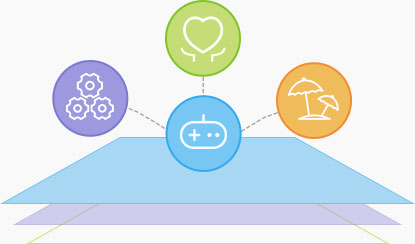
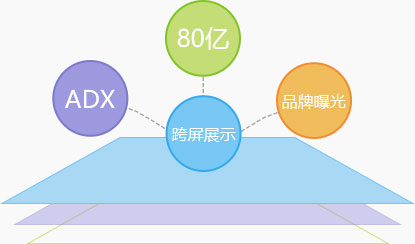
update

diff --git a/web/easy-rice/er-resource-advantage.html b/web/easy-rice/er-resource-advantage.html
@@ -122,8 +122,8 @@
                             <div class="protal-group-content protal-part-top row clearfix bg-f9">
                                 <div class="protal-group-detail col-5">
                                     <div class="protal-group-wrap mt150">
-                                        <h2 class="protal-group-tit">优质媒体资源</h2>
-                                        <p class="protal-group-desc">海量媒体资源让客户随时随地看到您的广告</p>
+                                        <h2 class="protal-group-tit">行业客户</h2>
+                                        <p class="protal-group-desc">服务客户覆盖电商、教育、房地产、汽车、机械制造等，建立了成熟的行业解决方案，形成了行业专业投放数据。服务客户达到10余万家，得到客户认可和好评。同时为您量身定制方案，实现您的营销目标。</p>
                                     </div>
                                 </div>
                                 <div class="protal-group-img-wrap col-7">
@@ -137,63 +137,32 @@
                         <div class="protal-group">
                             <div class="protal-group-content row clearfix bg-f3">
                                 <div class="protal-group-img-wrap col-6">
-                                    <div class="protal-group-img mt50">
-                                        <img src="../images/easy-rice/resource-advantage-two.jpg" alt="">
-                                    </div>
-                                </div>
-                                <div class="protal-group-detail col-6">
-                                    <div class="protal-group-wrap">
-                                        <h2 class="protal-group-tit">媒体资源包括</h2>
-                                        <p class="protal-group-desc">美图秀秀、58同城、网易、百度、爱奇艺、今日头条、赶集、新浪、凤凰网、腾讯视频等</p>
-                                    </div>
-                                </div>
-                            </div>
-                        </div>
-                        <div class="protal-group">
-                            <div class="protal-group-content row clearfix bg-f9">
-                                <div class="protal-group-detail col-6">
-                                    <div class="protal-group-wrap mt150">
-                                        <h2 class="protal-group-tit">丰富的广告形式</h2>
-                                        <p class="protal-group-desc">创意广告内容，多彩广告形式，让您的广告被客户喜爱</p>
-                                    </div>
-                                </div>
-                                <div class="protal-group-img-wrap col-6">
                                     <div class="protal-group-img mt100">
                                         <img src="../images/easy-rice/resource-advantage-thr.jpg" alt="">
+                                    </div>
+                                </div>
+                                <div class="protal-group-detail col-6">
+                                    <div class="protal-group-wrap mt150">
+                                        <h2 class="protal-group-tit">广告形式</h2>
+                                        <p class="protal-group-desc">丰富的广告形式：插屏、banner、全屏、轮播、信息流等。满足您多样化的需求和个性化的设计。在用户最需要的时候抓住用户的眼球，展示给用户并形成点击，帮您实现流量的导入。</p>
                                     </div>
                                 </div>
 
                             </div>
                         </div>
                         <div class="protal-group">
-                            <div class="protal-group-content row clearfix bg-f3">
+                            <div class="protal-group-content row clearfix bg-f9">
+                                <div class="protal-group-detail col-6">
+                                    <div class="protal-group-wrap">
+                                        <h2 class="protal-group-tit">服务保障</h2>
+                                        <p class="protal-group-desc">专业的客户服务和运维保障，随时随地为您解决问题.<br>便捷：智能的便捷服务<br>周到：代运营服务<br>省时：10年行业推广团队精倾力打造<br>专业：智能高效节约推广时间</p>
+                                    </div>
+                                </div>
                                 <div class="protal-group-img-wrap col-6">
                                     <div class="protal-group-img mt50">
                                         <img src="../images/easy-rice/resource-advantage-fou.jpg" alt="">
                                     </div>
                                 </div>
-                                <div class="protal-group-detail col-6">
-                                    <div class="protal-group-wrap">
-                                        <h2 class="protal-group-tit">精准的广告投放</h2>
-                                        <p class="protal-group-desc">行业投放数据积累，让广告投放更加精准触达用户</p>
-                                    </div>
-                                </div>
-                            </div>
-                        </div>
-                        <div class="protal-group">
-                            <div class="protal-group-content row clearfix bg-f9">
-                                <div class="protal-group-detail col-6">
-                                    <div class="protal-group-wrap">
-                                        <h2 class="protal-group-tit">专业的数据分析</h2>
-                                        <p class="protal-group-desc">资深优化师依托海量数据分析投放结果，扩大您的投资收益</p>
-                                    </div>
-                                </div>
-                                <div class="protal-group-img-wrap col-6">
-                                    <div class="protal-group-img mt100">
-                                        <img src="../images/easy-rice/resource-advantage-fiv.jpg" alt="">
-                                    </div>
-                                </div>
-
                             </div>
                         </div>
 

diff --git a/web/easy-rice/er-product-advantage.html b/web/easy-rice/er-product-advantage.html
@@ -122,8 +122,8 @@
                             <div class="protal-group-content protal-part-top row clearfix bg-f9">
                                 <div class="protal-group-detail col-6">
                                     <div class="protal-group-wrap mt150">
-                                        <h2 class="protal-group-tit">行业客户</h2>
-                                        <p class="protal-group-desc">服务客户覆盖制造、服务、旅游、游戏等，建立了成熟的行业解决方案</p>
+                                        <h2 class="protal-group-tit">资源优势</h2>
+                                        <p class="protal-group-desc">签约多家ADX，涵盖市场主流媒体资源，每天约80亿次曝光，覆盖PC、移动等端口，实现跨屏展示，为您带来品牌曝光和品牌影响，实现品牌推广。</p>
                                     </div>
                                 </div>
                                 <div class="protal-group-img-wrap col-6">
@@ -143,8 +143,8 @@
                                 </div>
                                 <div class="protal-group-detail col-6">
                                     <div class="protal-group-wrap">
-                                        <h2 class="protal-group-tit">独家技术</h2>
-                                        <p class="protal-group-desc">独家“相似人群技术” ，有效分析DMP中相似人群的转型为特点扩大人群覆盖范围</p>
+                                        <h2 class="protal-group-tit">技术优势</h2>
+                                        <p class="protal-group-desc">独家相似人群技术，有效分析数据库中相似人群行为属性特征，为您找到目标用户相似需求属性，发掘目标用户使用行为习惯，发现潜在消费人群，助您提升曝光、点击以及转化。</p>
                                     </div>
                                 </div>
                             </div>
@@ -154,7 +154,7 @@
                                 <div class="protal-group-detail col-6">
                                     <div class="protal-group-wrap">
                                         <h2 class="protal-group-tit">数据资源</h2>
-                                        <p class="protal-group-desc">积累了各行业丰富的数据资源，上亿商品数据、网名用户行为数据、广告信息数据。</p>
+                                        <p class="protal-group-desc">以第三方数据为基础，结合数十年产品投放数据建立独有数据体系。上亿点击数据、网名行为数据、网民基本属性数据、网民搜索爱好数据、广告投放数据等，为您用大数据打开数字营销新方式。</p>
                                     </div>
                                 </div>
                                 <div class="protal-group-img-wrap col-6">
@@ -165,38 +165,7 @@
 
                             </div>
                         </div>
-                        <div class="protal-group">
-                            <div class="protal-group-content row clearfix bg-f3">
-                                <div class="protal-group-img-wrap col-6">
-                                    <div class="protal-group-img mt50">
-                                        <img src="../images/easy-rice/product-advantage-fou.jpg" alt="">
-                                    </div>
-                                </div>
-                                <div class="protal-group-detail col-6">
-                                    <div class="protal-group-wrap">
-                                        <h2 class="protal-group-tit">技术支持</h2>
-                                        <p class="protal-group-desc">强大的技术支持团队，经验丰富的运营服务团队，24小时服务保障体系。</p>
-                                    </div>
-                                </div>
-                            </div>
-                        </div>
-                        <div class="protal-group">
-                            <div class="protal-group-content row clearfix bg-f9">
-                                <div class="protal-group-detail col-6">
-                                    <div class="protal-group-wrap">
-                                        <h2 class="protal-group-tit">定制方案</h2>
-                                        <p class="protal-group-desc">量身定制客户行业解决方案，实现客户营销目标。</p>
-                                    </div>
-                                </div>
-                                <div class="protal-group-img-wrap col-6">
-                                    <div class="protal-group-img mt100">
-                                        <img src="../images/easy-rice/product-advantage-fiv.jpg" alt="">
-                                    </div>
-                                </div>
-
-                            </div>
-                        </div>
-
+                        
                     </div>
 
                     <div class="get-protal bg-f2 mb50">

diff --git a/web/easy-rice/er-home.html b/web/easy-rice/er-home.html
@@ -217,8 +217,7 @@
                                 <div class="protal-group-detail col-6">
                                     <div class="protal-group-wrap">
                                         <h2 class="protal-group-tit">社交媒体营销</h2>
-                                        <p class="protal-group-desc">创意性的内容策划，发起话题，吸引粉丝加入，并提升粉丝黏性；专业活动策划，提高页面活跃度，扩大品牌影响力社交人群活跃；跨社交媒体平台，针对不同平台属性，提供专业广告创意及素材。</p>
-                                        <div class="white-btn">获取方案</div>
+                                        <p class="protal-group-desc">创意性的内容策划，发起话题，吸引粉丝加入，并提升粉丝黏性；<br>专业活动策划，提高页面活跃度，扩大品牌影响力社交人群活跃；<br>跨社交媒体平台，针对不同平台属性，提供专业广告创意及素材。</p>
                                     </div>
                                 </div>
                             </div>
@@ -402,9 +401,9 @@
 <script src="../bower_components/jquery/jquery.min.js" charset="utf-8"></script>
 <!-- endbuild -->
 
-<script src="./scripts/public.js" charset="utf-8"></script>
-<script src="./scripts/plugin.js" charset="utf-8"></script>
-<script src="./scripts/main.js" charset="utf-8"></script>
+<script src="../scripts/public.js" charset="utf-8"></script>
+<script src="../scripts/plugin.js" charset="utf-8"></script>
+<script src="../scripts/main.js" charset="utf-8"></script>
 
 <script src="../scripts/protal.js" charset="utf-8"></script>
 
